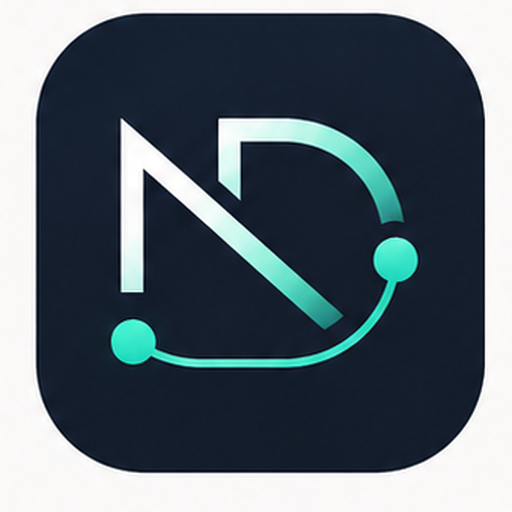
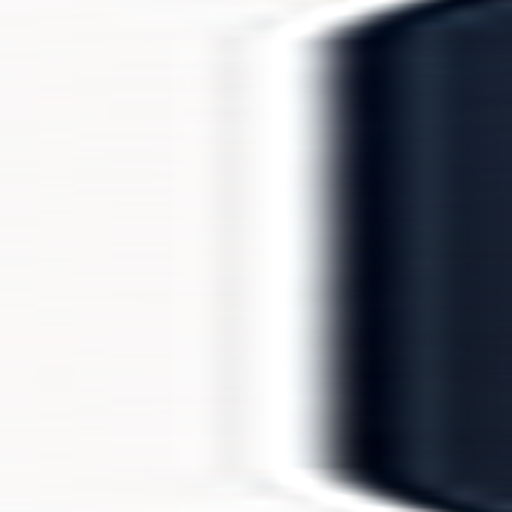
Add files via upload

diff --git a/sw.js b/sw.js
@@ -1,13 +1,39 @@
-const CACHE_NAME = "neurodirect-cache-v3.0.0";
+const CACHE_NAME = "neurodirect-cache-v5.0.0";
 const APP_FILES = [
   "./",
+  "./index.html?v=5",
   "./index.html",
+  "./style.css?v=5",
   "./style.css",
   "./script.js",
   "./manifest.json",
+  "./header-logo.png",
+  "./approved-lockup.png",
+  "./approved-icon.png",
   "./logo.svg",
-  "./logo.png",
+  "./favicon.ico?v=5",
+  "./favicon.ico",
+  "./apple-touch-icon.png?v=5",
+  "./apple-touch-icon.png",
+  "./icon-48.png?v=5",
+  "./icon-72.png?v=5",
+  "./icon-96.png?v=5",
+  "./icon-128.png?v=5",
+  "./icon-144.png?v=5",
+  "./icon-152.png?v=5",
+  "./icon-180.png?v=5",
+  "./icon-192.png?v=5",
+  "./icon-384.png?v=5",
+  "./icon-512.png?v=5",
+  "./icon-48.png",
+  "./icon-72.png",
+  "./icon-96.png",
+  "./icon-128.png",
+  "./icon-144.png",
+  "./icon-152.png",
+  "./icon-180.png",
   "./icon-192.png",
+  "./icon-384.png",
   "./icon-512.png"
 ];
 
@@ -27,10 +53,8 @@ self.addEventListener("activate", (event) => {
 
 self.addEventListener("fetch", (event) => {
   if (event.request.method !== "GET") return;
-
   const url = new URL(event.request.url);
-  const isHtml = event.request.mode === "navigate" || url.pathname.endsWith(".html") || url.pathname === "/";
-
+  const isHtml = event.request.mode === "navigate" || url.pathname.endsWith(".html") || url.pathname.endsWith("/");
   if (isHtml) {
     event.respondWith(
       fetch(event.request)
@@ -39,11 +63,10 @@ self.addEventListener("fetch", (event) => {
           caches.open(CACHE_NAME).then((cache) => cache.put(event.request, copy));
           return response;
         })
-        .catch(() => caches.match(event.request).then((cached) => cached || caches.match("./index.html")))
+        .catch(() => caches.match("./index.html?v=5").then((cached) => cached || caches.match("./index.html")))
     );
     return;
   }
-
   event.respondWith(
     caches.match(event.request).then((cached) => cached || fetch(event.request).then((response) => {
       const copy = response.clone();

diff --git a/style.css b/style.css
@@ -452,3 +452,24 @@ textarea { resize: vertical; }
   .hero-panel h2, .section-title h2 { font-size: 2.3rem; }
   .quickCheckBtn { display: none; }
 }
+
+
+/* v5 exact approved logo */
+.brand-lockup.exact-lockup{
+  display:flex;
+  align-items:center;
+  min-width:0;
+}
+.brand-lockup-image{
+  display:block;
+  height:40px;
+  width:auto;
+  max-width:min(58vw, 280px);
+  object-fit:contain;
+}
+@media (max-width: 600px){
+  .brand-lockup-image{
+    height:34px;
+    max-width:52vw;
+  }
+}

diff --git a/index.html b/index.html
@@ -7,9 +7,12 @@
   <meta name="description" content="NeuroDirect is a private teen wellbeing, planning and focus support app for ages 13–17." />
   <title>NeuroDirect</title>
   <link rel="manifest" href="manifest.json" />
-  <link rel="icon" href="icon-192.png" />
-  <link rel="apple-touch-icon" href="icon-192.png" />
-  <link rel="stylesheet" href="style.css" />
+  <link rel="icon" href="favicon.ico?v=5" />
+  <link rel="icon" type="image/png" sizes="192x192" href="icon-192.png?v=5" />
+  <link rel="icon" type="image/png" sizes="512x512" href="icon-512.png?v=5" />
+  <link rel="apple-touch-icon" href="apple-touch-icon.png?v=5" />
+  <link rel="stylesheet" href="style.css?v=5" />
+  <!-- NeuroDirect v5 exact approved logo -->
 </head>
 <body>
   <div id="appShell" class="app-shell">
@@ -18,12 +21,8 @@
         <span></span><span></span><span></span>
       </button>
 
-      <div class="brand-lockup" aria-label="NeuroDirect home">
-        <img src="logo.svg" alt="NeuroDirect logo" class="brand-mark" />
-        <div>
-          <h1>NeuroDirect</h1>
-          <p>Teen focus & wellbeing hub</p>
-        </div>
+      <div class="brand-lockup exact-lockup" aria-label="NeuroDirect home">
+        <img src="header-logo.png?v=5" alt="NeuroDirect logo" class="brand-lockup-image" />
       </div>
 
       <div class="top-actions">

diff --git a/README.md b/README.md
@@ -1,54 +1,14 @@
-# NeuroDirect (v3 — logo fixed)
+# NeuroDirect (v5 — exact approved logo)
 
+This package uses the exact approved NeuroDirect logo artwork.
 
-NeuroDirect is a clean, premium, installable web app for teenagers aged 13–17. It is designed for focus support, wellbeing check-ins, planning, rewards and parent/carer overview.
+## Fixed in this version
 
-## What is included
+- Uses the exact approved icon artwork for all app icons.
+- Uses the exact approved NeuroDirect lockup in the app header.
+- Replaced the previous traced/approximate icon.
+- Updated cache version to `neurodirect-cache-v5.0.0`.
 
-- `index.html` — main app file
-- `style.css` — full responsive premium styling with light/dark mode
-- `script.js` — local saving, check-ins, planner, focus timer, rewards, reports, import/export
-- `manifest.json` — installable PWA setup
-- `sw.js` — offline cache/service worker
-- `logo.svg` — NeuroDirect logo
-- `icon-192.png` and `icon-512.png` — app icons using the ND neural logo
-- `UPLOAD_NOTES.txt` — simple upload instructions
+## Upload
 
-## Features
-
-- Teen dashboard
-- Daily mood, energy, stress, focus, sleep and pressure check-ins
-- Local-only saving using browser storage
-- Task planner with coins for completed tasks
-- Focus timer with coin rewards
-- Reset toolkit: breathing, grounding, task shrinker and help script
-- Rewards screen
-- Parent/carer view protected by a simple PIN
-- Copyable report
-- Export/import JSON backup
-- Light/dark mode
-- Accent colour themes
-- Fully responsive mobile layout
-- PWA install support
-
-## Default parent PIN
-
-The default parent PIN is `1234` until changed in Settings.
-
-## Important safety note
-
-This app is a personal support and tracking tool. It is not a medical device, diagnostic tool, safeguarding system, or emergency support service. If a young person is unsafe or at risk, contact a trusted adult or emergency services immediately.
-
-## GitHub Pages deployment
-
-1. Create a new GitHub repository.
-2. Upload every file from this package into the repository root.
-3. Go to **Settings → Pages**.
-4. Under **Build and deployment**, choose **Deploy from a branch**.
-5. Choose the `main` branch and `/root` folder.
-6. Save.
-7. Wait for GitHub to publish the app.
-
-## Cache/update note
-
-The service worker cache is versioned as `neurodirect-cache-v1.0.0`. If you make future changes and the phone keeps showing an old version, update the cache name in `sw.js` to a newer version such as `neurodirect-cache-v1.0.1`.
+Delete all old repo files, then upload every file in this package to the root of the GitHub Pages repo.